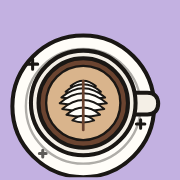
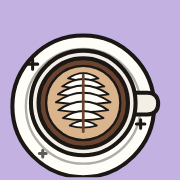
Fix the latte pour: the jug now sits above its spout, bigger rosetta, evenly spread notes, hold on the finished latte

Changed region(s): [[0.3056, 0.3889, 0.6389, 0.75]]

diff --git a/components/preloader/LatteArt.tsx b/components/preloader/LatteArt.tsx
@@ -16,8 +16,8 @@ const CX = 46;
 const CY = 56;
 const CREMA = "#D9B48C";
 const ANGLE = -43; // the pitcher's spout points down and to the left, at the cup
-const PITCHER = 0.82; // pitcher scale
-const REACH = 21 * PITCHER; // pitcher centre → spout tip
+const PITCHER = 0.95; // pitcher scale
+const REACH = 26 * PITCHER; // pitcher centre → spout tip
 
 const POUR_START = 6;
 const POUR_END = 24;
@@ -26,13 +26,13 @@ const EXIT_START = 29;
 
 // Rosetta layers (leaf crescents), stacked down the cup: [y, half-width]
 const LAYERS: [number, number][] = [
-  [46, 7.5],
-  [49.4, 10.5],
-  [52.8, 13],
-  [56.2, 14],
-  [59.6, 12.5],
-  [63, 10],
-  [66.4, 6.5],
+  [41.5, 9],
+  [46.2, 12.5],
+  [50.9, 15],
+  [55.6, 16.2],
+  [60.3, 14.8],
+  [65, 12],
+  [69.4, 8],
 ];
 const layerFrame = (i: number) => POUR_START + 1 + Math.round((i * (POUR_END - POUR_START - 3)) / (LAYERS.length - 1));
 
@@ -40,7 +40,7 @@ const clamp = (n: number, a = 0, b = 1) => Math.min(b, Math.max(a, n));
 const ease = (t: number) => 1 - (1 - t) * (1 - t);
 const crescent = (y: number, w: number, s: number) => {
   const hw = w * s;
-  return `M${CX - hw} ${y}Q${CX} ${y - hw * 0.85} ${CX + hw} ${y}Q${CX} ${y + 2.4 * s} ${CX - hw} ${y}Z`;
+  return `M${CX - hw} ${y}Q${CX} ${y - hw * 0.7} ${CX + hw} ${y}Q${CX} ${y + 2.4 * s} ${CX - hw} ${y}Z`;
 };
 
 export function LatteArt({ frame }: { frame: number }) {
@@ -51,10 +51,10 @@ export function LatteArt({ frame }: { frame: number }) {
   const wig = pouring ? Math.sin((f - POUR_START) * 1.7) * 4 : 0; // the side-to-side wiggle
 
   // where the milk lands
-  const poolY = 46 + 20 * clamp((f - POUR_START) / (POUR_END - POUR_START));
+  const poolY = 43 + 26 * clamp((f - POUR_START) / (POUR_END - POUR_START));
   const pull = cutting ? (f - POUR_END) / (CUT_END - POUR_END) : f > CUT_END ? 1 : 0;
   const landX = pouring ? CX + wig * 0.5 : CX;
-  const landY = pouring ? poolY : 43 + 29 * pull;
+  const landY = pouring ? poolY : 40 + 33 * pull;
 
   // spout tip hovers up-right of where it lands; the stream is short and fat while pouring, thin when cutting
   const lift = cutting ? 1 : 0;
@@ -64,7 +64,7 @@ export function LatteArt({ frame }: { frame: number }) {
   const angle = ANGLE + wig * 1.3 + (cutting ? -6 : 0);
   const rad = (angle * Math.PI) / 180;
   const px = tipX + REACH * Math.cos(rad) + 46 * away;
-  const py = tipY + REACH * Math.sin(rad) * -1 - 34 * away;
+  const py = tipY + REACH * Math.sin(rad) - 34 * away; // sin(angle) < 0: the jug sits above-right of its spout
 
   const fade = f === 34 ? 0.5 : f === 35 ? 0 : 1; // the art melts so the loop restarts on a clean cup
   const stream = (w: number, c?: string) => (
@@ -103,7 +103,7 @@ export function LatteArt({ frame }: { frame: number }) {
           return <path key={i} d={crescent(y, w, t === 0 ? 0.4 : t === 1 ? 0.75 : 1)} fill={colors.sticker} strokeWidth={1.1} />;
         })}
         {pull > 0 && (
-          <path d="M46 43V72" pathLength={1} strokeDasharray={1} strokeDashoffset={1 - pull} strokeWidth={1.6} stroke={colors.espresso} />
+          <path d="M46 39.5V73" pathLength={1} strokeDasharray={1} strokeDashoffset={1 - pull} strokeWidth={1.6} stroke={colors.espresso} />
         )}
         {f >= 28 && f <= 33 && (
           <g strokeWidth={1.8}>
@@ -129,13 +129,13 @@ export function LatteArt({ frame }: { frame: number }) {
         </g>
       )}
 
-      {/* the pitcher: round body, pointed spout, handle on the far side (not drawn once it has left) */}
+      {/* the pitcher: a tilted milk jug seen from above, spout leading, handle on the far side */}
       {away < 0.99 && (
         <g transform={`translate(${px.toFixed(1)} ${py.toFixed(1)}) rotate(${angle.toFixed(1)}) scale(${PITCHER})`}>
-          <path d="M11 -3.4c9.4-1 10.6 9 0 9.4" strokeWidth={2.2} />
-          <path d="M-9.4 -9.4C-14 -8.4 -17 -4.6 -21 0c4 4.6 7 8.4 11.6 9.4A12.6 12.6 0 1 0 -9.4 -9.4z" fill={colors.paper} />
-          <ellipse cx={-1} cy={0} rx={7.6} ry={7} strokeWidth={1.4} strokeOpacity={0.4} />
-          <path d="M-5.4 -9.8c3.2 1.2 7 1.2 10 -.2" strokeWidth={1.4} strokeOpacity={0.5} />
+          <path d="M20 -4c11-1.6 13 12 0 10.4" strokeWidth={2.4} />
+          <path d="M-26 0C-18 -5 -12 -12.6 0 -13.2C12 -14 20 -7 20 0C20 7 12 14 0 13.2C-12 12.6 -18 5 -26 0z" fill={colors.paper} />
+          <path d="M-19 0C-12 -6.6 3 -8.6 13 -4C17 0 13 5 3 6.6C-8 7.8 -14 5 -19 0z" fill={colors.sticker} strokeWidth={1.4} />
+          <path d="M-9 -10.4C-4 -12 4 -12.4 10 -10" strokeWidth={1.4} strokeOpacity={0.45} />
         </g>
       )}
     </svg>

diff --git a/components/preloader/Preloader.tsx b/components/preloader/Preloader.tsx
@@ -3,9 +3,9 @@
 import { useEffect, useRef, useState } from "react";
 import { gsap } from "@/lib/gsap";
 import { markIntroDone } from "@/lib/intro";
-import { prefersReducedMotion } from "@/lib/motion";
+import { prefersReducedMotion, useReducedMotion } from "@/lib/motion";
 import { getLenis } from "@/components/providers/SmoothScroll";
-import { LatteArt } from "@/components/preloader/LatteArt";
+import { LATTE_DONE, LatteArt } from "@/components/preloader/LatteArt";
 
 /**
  * Preloader (after moneyincheck.org): a latte being poured, centred on the grid paper, while
@@ -13,7 +13,7 @@ import { LatteArt } from "@/components/preloader/LatteArt";
  * MIN_MS), then fades away.
  */
 
-const MIN_MS = 3000;
+const MIN_MS = 3400; // one full pour (3 s) plus a beat on the finished latte
 const FPS = 12; // drawn "on twos"
 const NOTE_EVERY_MS = 260;
 const NOTES = [
@@ -25,6 +25,7 @@ export function Preloader() {
   const rootRef = useRef<HTMLDivElement>(null);
   const notesRef = useRef<HTMLDivElement>(null);
   const [frame, setFrame] = useState(0);
+  const reducedMotion = useReducedMotion();
 
   useEffect(() => {
     const root = rootRef.current!;
@@ -61,7 +62,8 @@ export function Preloader() {
       const step = 1000 / FPS;
       if (acc >= step) {
         acc %= step;
-        setFrame((f) => f + 1);
+        // one pour, then hold on the finished latte until the page is ready
+        setFrame((f) => Math.min(f + 1, LATTE_DONE));
       }
     };
     if (!reduced) gsap.ticker.add(tick);
@@ -70,12 +72,14 @@ export function Preloader() {
     let noteTimer: ReturnType<typeof setInterval> | undefined;
     if (!reduced) {
       let n = Math.floor(Math.random() * NOTES.length);
+      let swing = Math.random() * Math.PI * 2;
       noteTimer = setInterval(() => {
         const el = document.createElement("span");
         el.textContent = NOTES[n++ % NOTES.length];
-        const angle = Math.random() * Math.PI * 2;
-        const rx = 150 + Math.random() * 90;
-        const ry = 120 + Math.random() * 70;
+        swing += 2.4 + Math.random() * 0.5; // roughly a golden-angle step, so notes never pile up
+        const angle = swing;
+        const rx = 190 + Math.random() * 90;
+        const ry = 150 + Math.random() * 70;
         const faint = Math.random() < 0.3;
         el.className = "pl-note";
         el.style.left = `calc(50% + ${(Math.cos(angle) * rx).toFixed(0)}px)`;
@@ -113,8 +117,8 @@ export function Preloader() {
   return (
     <div ref={rootRef} role="status" aria-label="Loading" className="preloader fixed inset-0 z-[90]" data-cursor="default">
       <div ref={notesRef} aria-hidden className="pointer-events-none absolute inset-0" />
-      <div className="absolute left-1/2 top-1/2 h-[min(300px,40vh)] w-[min(300px,40vh)] -translate-x-1/2 -translate-y-1/2">
-        <LatteArt frame={frame} />
+      <div className="absolute left-1/2 top-1/2 h-[min(380px,48vh)] w-[min(380px,48vh)] -translate-x-1/2 -translate-y-1/2">
+        <LatteArt frame={reducedMotion ? LATTE_DONE : frame} /> {/* no motion: just the finished latte */}
       </div>
     </div>
   );
